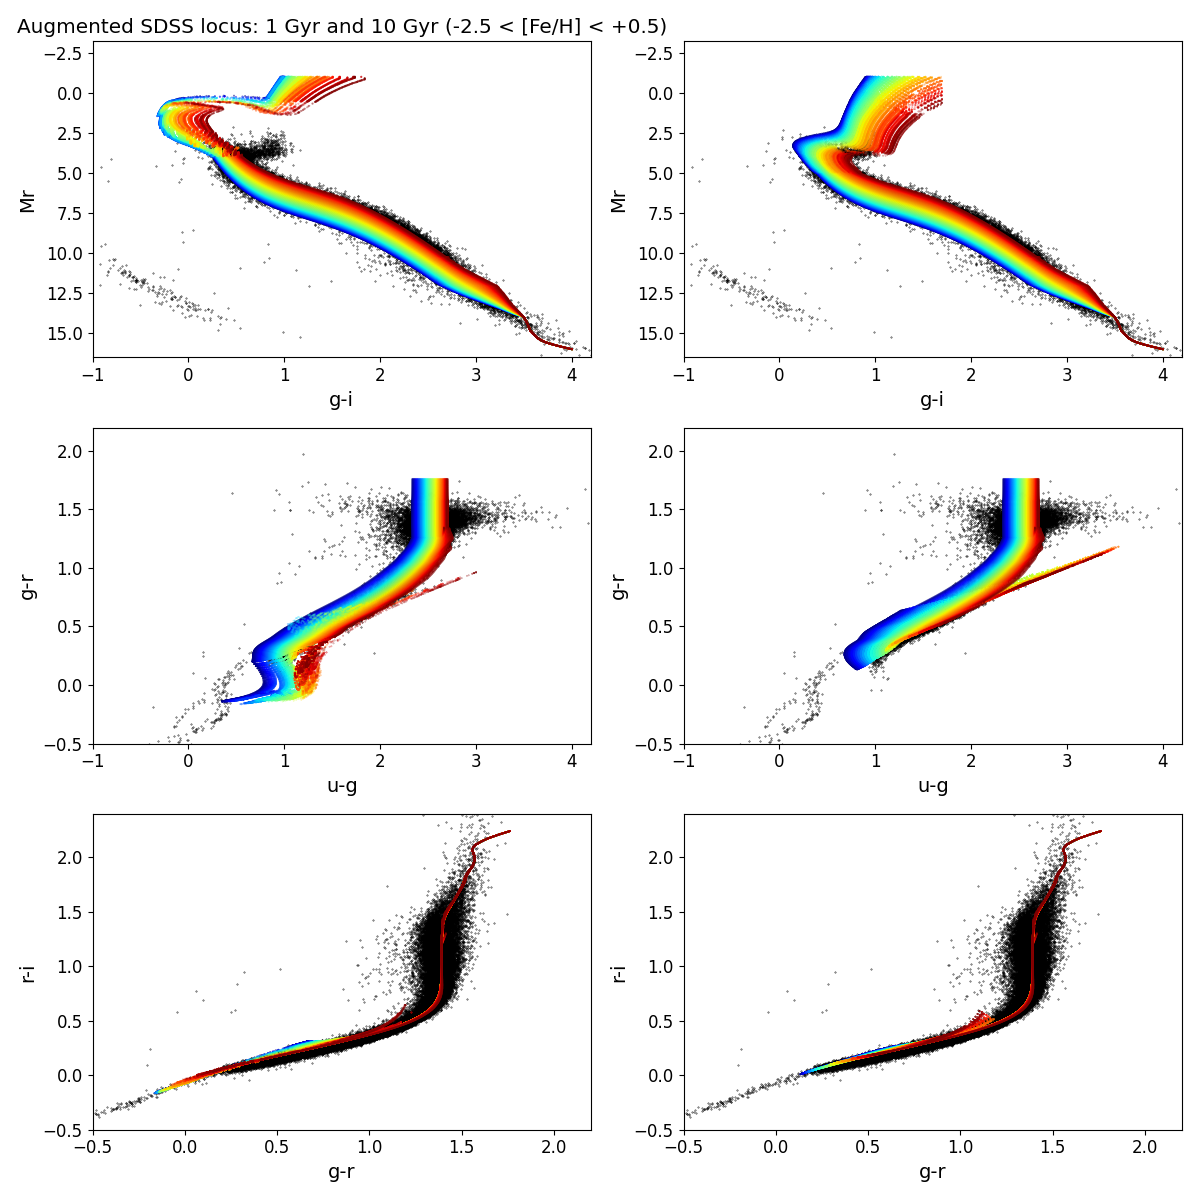
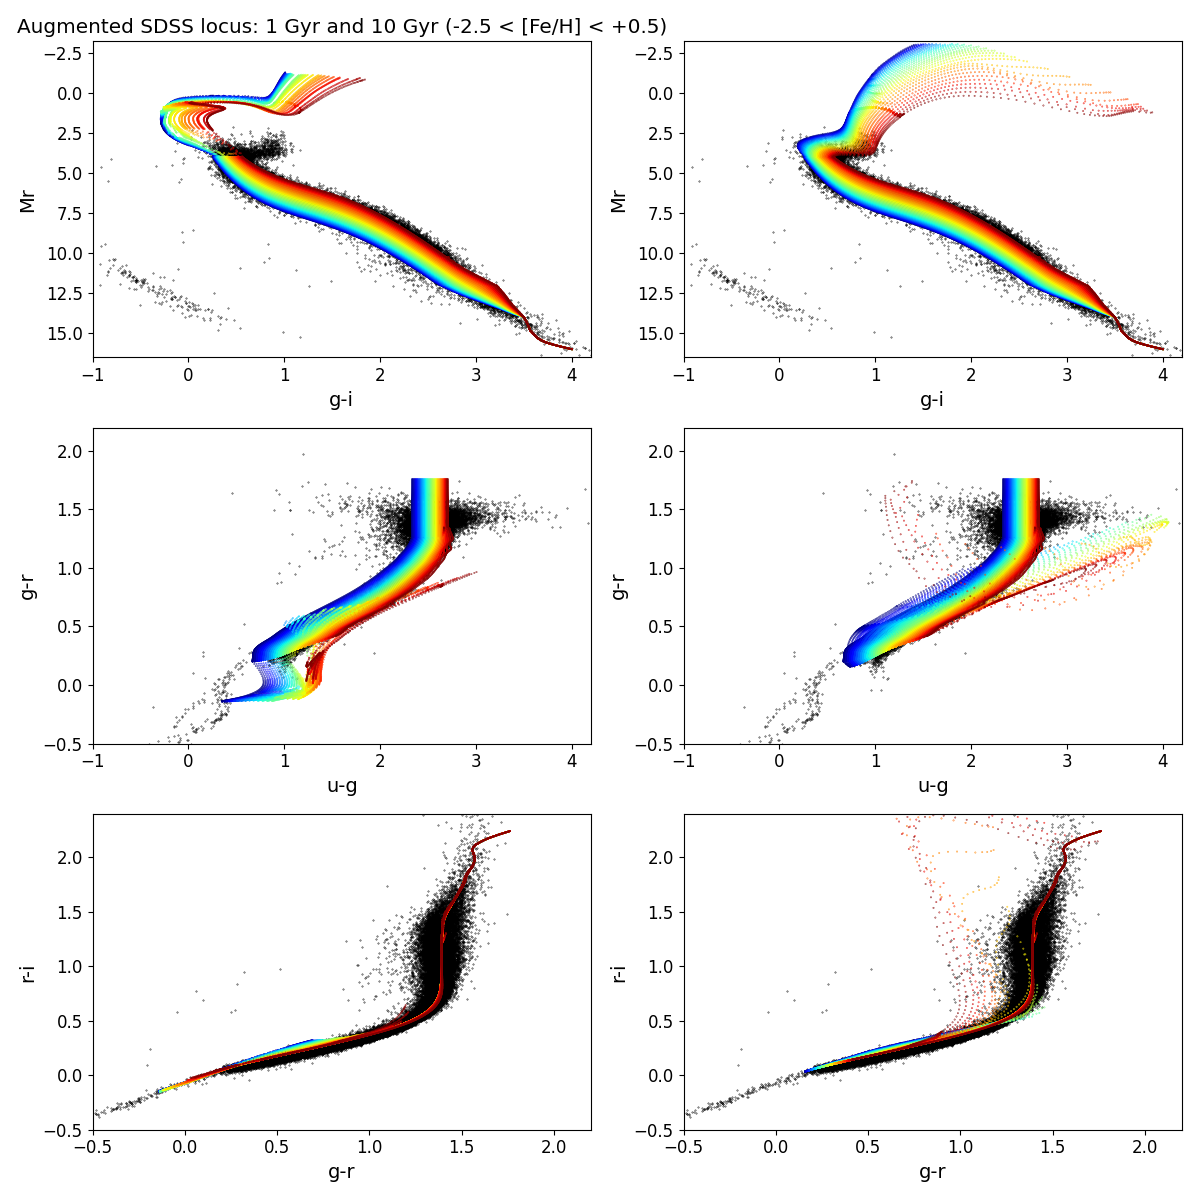
added code for stitching DSED isochrones

diff --git a/paper/notebooks/paperPlots.py b/paper/notebooks/paperPlots.py
@@ -470,6 +470,71 @@ def compare2isochrones(dataDF, isoDF1, isoDF2, alpha1=0.05, alpha2=0.8, title=""
 
 
 
+def compare2isochrones2(dataDF, isoDF1, isoDF2, alpha1=0.05, alpha2=0.8, title="", plotname='compare2isochrones.png'):
+
+    fig,ax = plt.subplots(3,2,figsize=(12,12))
+
+    plt.rcParams.update({'font.size': 12})
+    plt.rc('axes', labelsize=14)    
+
+    ax[0,0].scatter(dataDF['gi'], dataDF['Mr'], s=0.1, c='black')
+    ax[0,0].scatter(isoDF1['gi'], isoDF1['Mr'], s=0.1, c=isoDF1['Mr'], cmap=plt.cm.jet, alpha=alpha1)
+    ax[0,0].set_xlim(-1.0, 4.2)
+    ax[0,0].set_ylim(16.5, -3.2)
+    ax[0,0].set_xlabel('g-i')
+    ax[0,0].set_ylabel('Mr')
+
+    ax[0,1].scatter(dataDF['gi'], dataDF['Mr'], s=0.1, c='black')
+    ax[0,1].scatter(isoDF2['gi'], isoDF2['Mr'], s=0.1, c=isoDF2['Mr'], cmap=plt.cm.jet, alpha=alpha2)
+    ax[0,1].set_xlim(-1.0, 4.2)
+    ax[0,1].set_ylim(16.5, -3.2)
+    ax[0,1].set_xlabel('g-i')
+    ax[0,1].set_ylabel('Mr')
+    ax[0,0].set_title(title, loc='center')
+
+    ax[1,0].scatter(dataDF['ug'], dataDF['gr'], s=0.1, c='black')
+    if (1):
+        flag = (isoDF1['Mr']>0.5)
+        isoDF1x = isoDF1[flag]
+        ax[1,0].scatter(isoDF1x['ug'], isoDF1x['gr'], s=0.1, c=isoDF1x['Mr'], cmap=plt.cm.jet, alpha=alpha1)
+    else:
+        ax[1,0].scatter(isoDF1['ug'], isoDF1['gr'], s=0.1, c=isoDF1['Mr'], cmap=plt.cm.jet, alpha=alpha1)
+    ax[1,0].set_xlim(-1.0,4.2)
+    ax[1,0].set_ylim(-0.5, 2.2)
+    ax[1,0].set_xlabel('u-g')
+    ax[1,0].set_ylabel('g-r')
+
+    ax[1,1].scatter(dataDF['ug'], dataDF['gr'], s=0.1, c='black')
+    ax[1,1].scatter(isoDF2['ug'], isoDF2['gr'], s=0.1, c=isoDF2['Mr'], cmap=plt.cm.jet, alpha=alpha2)
+    ax[1,1].set_xlim(-1.0,4.2)
+    ax[1,1].set_ylim(-0.5, 2.2)
+    ax[1,1].set_xlabel('u-g')
+    ax[1,1].set_ylabel('g-r')
+
+    ax[2,0].scatter(dataDF['gr'], dataDF['ri'], s=0.1, c='black')
+    ax[2,0].scatter(isoDF1['gr'], isoDF1['ri'], s=0.1, c=isoDF1['Mr'], cmap=plt.cm.jet, alpha=alpha1)
+    ax[2,0].set_xlim(-0.5, 2.2)
+    ax[2,0].set_ylim(-0.5, 2.4)
+    ax[2,0].set_xlabel('g-r')
+    ax[2,0].set_ylabel('r-i')
+
+    ax[2,1].scatter(dataDF['gr'], dataDF['ri'], s=0.1, c='black')
+    ax[2,1].scatter(isoDF2['gr'], isoDF2['ri'], s=0.1, c=isoDF2['Mr'], cmap=plt.cm.jet, alpha=alpha2)
+    ax[2,1].set_xlim(-0.5, 2.2)
+    ax[2,1].set_ylim(-0.5, 2.4)
+    ax[2,1].set_xlabel('g-r')
+    ax[2,1].set_ylabel('r-i')
+
+    plt.tight_layout()
+    plt.savefig(plotname)
+    print('made plot:', plotname)
+    plt.show() 
+    plt.close("all")
+    return
+
+
+
+
 
 
 def compare2isochronesColorMr(dataDF, isoDF1, isoDF2, alpha1=0.05, alpha2=0.8, title="", plotname='compare2isochronesColorMr.png'):
@@ -549,6 +614,126 @@ def compare2isochronesColorMr(dataDF, isoDF1, isoDF2, alpha1=0.05, alpha2=0.8, t
     ax[4,1].set_xlabel('Mr')
     ax[4,1].set_ylabel('g-i')
 
+    plt.tight_layout()
+    plt.savefig(plotname)
+    print('made plot:', plotname)
+    plt.show() 
+    plt.close("all")
+    return
+
+
+ 
+
+
+
+def compare2isochronesColorMrAlongLocus(df1, df2, alpha=0.8, title="", plotname='noname.png', tMin = -10, tMax = 272):
+
+    fig,ax = plt.subplots(7,2,figsize=(12,12))
+
+    def plotPanel(xP, yP, df, xName, yName, cName, xMin, xMax, yMin, yMax, xLabel, yLabel, alpha):
+        ax[xP,yP].scatter(df[xName], df[yName], s=0.3, c=df[cName], cmap=plt.cm.jet, alpha=alpha)
+        ax[xP,yP].set_xlim(xMin, xMax)
+        ax[xP,yP].set_ylim(yMin, yMax)
+        ax[xP,yP].set_xlabel(xLabel)
+        ax[xP,yP].set_ylabel(yLabel)
+
+    # derivatives dMr/dtLoc
+    def dMdt(df):
+        dMdt = 0*df['Mr']
+        for i in range(1,len(dMdt)):
+            dMdt[i] = (df['Mr'][i]-df['Mr'][i-1])/(df['tLoc'][i]-df['tLoc'][i-1])      
+        dMdt[0] = dMdt[1]
+        return dMdt
+
+    tLocMin = tMin
+    tLocMax = tMax
+    ax[0,0].set_title(title)
+
+    plotPanel(0, 0, df1, 'tLoc', 'ug', 'FeH', tLocMin, tLocMax, -0.7, 4.2, 'tLocus', 'u-g', alpha) 
+    plotPanel(0, 1, df2, 'tLoc', 'ug', 'FeH', tLocMin, tLocMax, -0.7, 4.2, 'tLocus', 'u-g', alpha) 
+
+    plotPanel(1, 0, df1, 'tLoc', 'gr', 'FeH', tLocMin, tLocMax, -0.9, 2.2, 'tLocus', 'g-r', alpha) 
+    plotPanel(1, 1, df2, 'tLoc', 'gr', 'FeH', tLocMin, tLocMax, -0.9, 2.2, 'tLocus', 'g-r', alpha) 
+     
+    plotPanel(2, 0, df1, 'tLoc', 'ri', 'FeH', tLocMin, tLocMax, -0.7, 2.9, 'tLocus', 'r-i', alpha) 
+    plotPanel(2, 1, df2, 'tLoc', 'ri', 'FeH', tLocMin, tLocMax, -0.7, 2.9, 'tLocus', 'r-i', alpha) 
+
+    plotPanel(3, 0, df1, 'tLoc', 'iz', 'FeH', tLocMin, tLocMax, -0.7, 2.0, 'tLocus', 'i-z', alpha) 
+    plotPanel(3, 1, df2, 'tLoc', 'iz', 'FeH', tLocMin, tLocMax, -0.7, 2.0, 'tLocus', 'i-z', alpha) 
+
+    plotPanel(4, 0, df1, 'tLoc', 'gi', 'FeH', tLocMin, tLocMax, -1.7, 5.1, 'tLocus', 'g-i', alpha) 
+    plotPanel(4, 1, df2, 'tLoc', 'gi', 'FeH', tLocMin, tLocMax, -1.7, 5.1, 'tLocus', 'g-i', alpha) 
+  
+    plotPanel(5, 0, df1, 'tLoc', 'Mr', 'FeH', tLocMin, tLocMax, 20.1, -5.1, 'tLocus', 'Mr', alpha) 
+    plotPanel(5, 1, df2, 'tLoc', 'Mr', 'FeH', tLocMin, tLocMax, 20.1, -5.1, 'tLocus', 'Mr', alpha) 
+
+    # derivatives dMr/dtLoc
+    if (1):
+        df1['dMdt'] = dMdt(df1)
+        df2['dMdt'] = dMdt(df2)
+        plotPanel(6, 0, df1, 'tLoc', 'dMdt', 'FeH', tLocMin, tLocMax, -10.7, 10.3, 'tLocus', 'dMr/dtLoc', alpha) 
+        plotPanel(6, 1, df2, 'tLoc', 'dMdt', 'FeH', tLocMin, tLocMax, -10.7, 10.3, 'tLocus', 'dMr/dtLoc', alpha) 
+
+    
+    plt.tight_layout()
+    plt.savefig(plotname)
+    print('made plot:', plotname)
+    plt.show() 
+    plt.close("all")
+    return
+
+
+
+
+
+def compare2isochronesColorMrAlongLocus2(df1, df2, alpha=0.8, title="", plotname='compare2isochronesColorMrAlongLocus.png'):
+
+    fig,ax = plt.subplots(7,2,figsize=(12,12))
+
+    def plotPanel(xP, yP, df, xName, yName, cName, xMin, xMax, yMin, yMax, xLabel, yLabel, alpha):
+        ax[xP,yP].scatter(df[xName], df[yName], s=0.3, c=df[cName], cmap=plt.cm.jet, alpha=alpha)
+        ax[xP,yP].set_xlim(xMin, xMax)
+        ax[xP,yP].set_ylim(yMin, yMax)
+        ax[xP,yP].set_xlabel(xLabel)
+        ax[xP,yP].set_ylabel(yLabel)
+
+    # derivatives dMr/dtLoc
+    def dMdt(df):
+        dMdt = 0*df['Mr']
+        for i in range(1,len(dMdt)):
+            dMdt[i] = (df['Mr'][i]-df['Mr'][i-1])/(df['tLoc'][i]-df['tLoc'][i-1])      
+        dMdt[0] = dMdt[1]
+        return dMdt
+
+    tLocMin = -10
+    tLocMax = 272
+    ax[0,0].set_title(title)
+
+    plotPanel(0, 0, df1, 'tLoc', 'ug', 'Mr', tLocMin, tLocMax, -0.7, 4.2, 'tLocus', 'u-g', alpha) 
+    plotPanel(0, 1, df2, 'tLoc', 'ug', 'Mr', tLocMin, tLocMax, -0.7, 4.2, 'tLocus', 'u-g', alpha) 
+
+    plotPanel(1, 0, df1, 'tLoc', 'gr', 'Mr', tLocMin, tLocMax, -0.9, 2.2, 'tLocus', 'g-r', alpha) 
+    plotPanel(1, 1, df2, 'tLoc', 'gr', 'Mr', tLocMin, tLocMax, -0.9, 2.2, 'tLocus', 'g-r', alpha) 
+     
+    plotPanel(2, 0, df1, 'tLoc', 'ri', 'Mr', tLocMin, tLocMax, -0.7, 2.9, 'tLocus', 'r-i', alpha) 
+    plotPanel(2, 1, df2, 'tLoc', 'ri', 'Mr', tLocMin, tLocMax, -0.7, 2.9, 'tLocus', 'r-i', alpha) 
+
+    plotPanel(3, 0, df1, 'tLoc', 'iz', 'Mr', tLocMin, tLocMax, -0.7, 2.0, 'tLocus', 'i-z', alpha) 
+    plotPanel(3, 1, df2, 'tLoc', 'iz', 'Mr', tLocMin, tLocMax, -0.7, 2.0, 'tLocus', 'i-z', alpha) 
+
+    plotPanel(4, 0, df1, 'tLoc', 'gi', 'Mr', tLocMin, tLocMax, -1.7, 4.1, 'tLocus', 'g-i', alpha) 
+    plotPanel(4, 1, df2, 'tLoc', 'gi', 'Mr', tLocMin, tLocMax, -1.7, 4.1, 'tLocus', 'g-i', alpha) 
+  
+    plotPanel(5, 0, df1, 'tLoc', 'Mr', 'Mr', tLocMin, tLocMax, 15.1, -5.1, 'tLocus', 'Mr', alpha) 
+    plotPanel(5, 1, df2, 'tLoc', 'Mr', 'Mr', tLocMin, tLocMax, 15.1, -5.1, 'tLocus', 'Mr', alpha) 
+
+    # derivatives dMr/dtLoc
+    df1['dMdt'] = dMdt(df1)
+    df2['dMdt'] = dMdt(df2)
+    plotPanel(6, 0, df1, 'tLoc', 'dMdt', 'Mr', tLocMin, tLocMax, -0.7, 0.3, 'tLocus', 'dMr/dtLoc', alpha) 
+    plotPanel(6, 1, df2, 'tLoc', 'dMdt', 'Mr', tLocMin, tLocMax, -0.7, 0.3, 'tLocus', 'dMr/dtLoc', alpha) 
+
+    
     plt.tight_layout()
     plt.savefig(plotname)
     print('made plot:', plotname)

diff --git a/src/LocusTools.py b/src/LocusTools.py
@@ -366,12 +366,12 @@ def DSEDlist2locus(DSEDlist):
     # given a list of DSED tables (e.g. 31 for different FeH values)
     # make a table with (Mr, FeH, {colors}), such as SDSS master locus
     d = DSEDlist[0]
-    sublist = (d['Mr'], d['FeH'], d['ug'], d['gr'], d['ri'], d['iz'], d['gi'])
+    sublist = (d['tLoc'], d['Mr'], d['FeH'], d['ug'], d['gr'], d['ri'], d['iz'], d['gi'])
     DSEDlocus = Table(sublist, copy=True)
     # loop 
     for i in range(1,len(DSEDlist)):
         d = DSEDlist[i]
-        sublist = (d['Mr'], d['FeH'], d['ug'], d['gr'], d['ri'], d['iz'], d['gi'])
+        sublist = (d['tLoc'], d['Mr'], d['FeH'], d['ug'], d['gr'], d['ri'], d['iz'], d['gi'])
         locus = Table(sublist, copy=True)
         DSEDlocus = vstack([DSEDlocus, locus])
     return DSEDlocus 
@@ -390,8 +390,7 @@ def DSEDlist2locusAugmented(DSEDlist):
         locus.rename_column('col0', 'Mr')     
         locus.rename_column('col1', 'FeH')     
         for c in colors:
-            locus[c], distanceAlongLocus = interpolateColorMr(d['Mr'], d[c], MrGrid)
-            locus['Dalong_'+c] = distanceAlongLocus 
+            locus[c] = interpolateColorMr(d['Mr'], d[c], MrGrid)
             # locus[c] = interpolateColorMrLinear(d['Mr'], d[c], MrGrid)
         locus['gi'] = locus['gr'] + locus['ri']
         if (i==0):
@@ -496,15 +495,19 @@ def getDSEDages(DSEDdatadir, DSEDfile):
 def assignAges(DSED, ages):
     k = 0
     DSED['ageGyr'] = DSED['logTeff']
+    DSED['tLoc'] = DSED['logTeff']
     for i in range(0, len(DSED)):
         if i==0: 
             DSED['ageGyr'][i] = ages[k]
+            DSED['tLoc'][i] = 0.0
         else:
             if DSED['EEP'][i]>DSED['EEP'][i-1]:
                 DSED['ageGyr'][i] = ages[k]
+                DSED['tLoc'][i] =  DSED['tLoc'][i-1] + 1.0 
             else:
                 k += 1
                 DSED['ageGyr'][i] = ages[k]
+                DSED['tLoc'][i] = 0.0
 
 def PARSEClocus(datafile, masterLocusData=""): 
         ## STELLAR ISOCHRONES IN THE SDSS-2MASS PHOTOMETRIC SYSTEM
@@ -548,6 +551,7 @@ def interpolateLocusGrid(inLocus, masterLocus):
         return interpLocus
 
 
+# first version, will become obsolete after augmentSDSSlocusWithIsochrone fully commissioned
 def augmentSDSSlocus(locusSDSS, locusDSED, MrStitch=5.0):
 
     # copy input locus
@@ -578,6 +582,42 @@ def augmentSDSSlocus(locusSDSS, locusDSED, MrStitch=5.0):
                 # NB correct for SDSS colors at Mr=MrStitch for SDSS locus
                 locusSDSSaug[c][j] = locusDSED[c][j] - locusDSED[c][jMr] + locusSDSSaug[c][jMr]
     return locusSDSSaug
+
+
+# new version, incorporates tLoc variable (distance along the locus)
+# "stitch" Mr < MrStich part of locusDSED to locusSDSS (and match colors) 
+def augmentSDSSlocusWithIsochrone(locusSDSS, locusDSED, MrStitch=5.0):
+
+    Ldsed = locusDSED
+    locusSDSS['tLoc'] = locusSDSS['Mr']
+    FeHGrid = locusSDSS['FeH']
+    FeH1d = np.sort(np.unique(FeHGrid))
+    colors = ['ug', 'gr', 'ri', 'iz', 'gi']
+    # loop over all FeH values
+    for i in range(0,len(FeH1d)):
+        LsdssFeH = locusSDSS[(locusSDSS['FeH']>FeH1d[i]-0.01)&(locusSDSS['FeH']<FeH1d[i]+0.01)]
+        LsdssFeH.reverse()
+        LdsedFeH = Ldsed[(Ldsed['FeH']>FeH1d[i]-0.01)&(Ldsed['FeH']<FeH1d[i]+0.01)]
+        if (len(LdsedFeH)>0):
+            ldsedRG = LdsedFeH[LdsedFeH['Mr'] < MrStitch]
+            ldsedRG['tLoc'] = MrStitch - 0.01*(ldsedRG['tLoc'] - ldsedRG['tLoc'][0] + 1)
+            d = ldsedRG
+            sublist = (d['tLoc'], d['Mr'], d['FeH'], d['ug'], d['gr'], d['ri'], d['iz'], d['gi'])
+            locusRG = Table(sublist, copy=True) 
+            locusSDSSms = LsdssFeH[LsdssFeH['Mr'] >= MrStitch]
+            d = locusSDSSms
+            sublist = (d['tLoc'], d['Mr'], d['FeH'], d['ug'], d['gr'], d['ri'], d['iz'], d['gi'])
+            locusMS = Table(sublist, copy=True)
+            for c in colors:
+                # correct for color offset 
+                locusRG[c] = locusRG[c] - locusRG[c][0] + locusMS[c][-1]
+            StitchedLocusFeH = vstack([locusMS, locusRG])
+            if (i==0):
+                StitchedLocus = StitchedLocusFeH
+            else:
+                StitchedLocus = vstack([StitchedLocus, StitchedLocusFeH])
+    return StitchedLocus
+ 
 
 
 def smoothLocus(locus):
@@ -866,6 +906,59 @@ def LSSTsimsLocus(fixForStripe82=True, datafile=""):
             LSSTlocus['iz'] += off0*LSSTlocus['ri']+off2*LSSTlocus['ri']**2+off5*LSSTlocus['ri']**5
             LSSTlocus['iz'] += offZ*(Z0+LSSTlocus['FeH'])
         return LSSTlocus
+
+
+
+# similar to LSSTsimsLocus, but with tLoc running variable 
+
+def readSDSSDSEDlocus(datafile, fixForStripe82=True): 
+        ## Mr, as function of [Fe/H], along the SDSS/LSST stellar 
+        ## for more details see the file header
+        colnames = ['tLoc', 'Mr', 'FeH', 'ug', 'gr', 'ri', 'iz']
+        LSSTlocus = Table.read(datafile, format='ascii', names=colnames)
+        LSSTlocus['gi'] = LSSTlocus['gr'] + LSSTlocus['ri']
+        if (fixForStripe82):
+            print('Fixing input Mr-FeH-colors grid to agree with the SDSS v4.2 catalog')
+            # for SDSS v4.2 catalog, see: http://faculty.washington.edu/ivezic/sdss/catalogs/stripe82.html
+            # implement empirical corrections for u-g and i-z colors to make it better agree with the SDSS v4.2 catalog
+            # fix u-g: slightly redder for progressively redder stars and fixed for gi>giMax
+            ugFix = LSSTlocus['ug']+0.02*(2+LSSTlocus['FeH'])*LSSTlocus['gi']
+            giMax = 1.8
+            ugMax = 2.53 + 0.13*(1+LSSTlocus['FeH'])
+            LSSTlocus['ug'] = np.where(LSSTlocus['gi']>giMax, ugMax , ugFix)
+            # fix i-z color: small offsets as functions of r-i and [Fe/H]
+            off0 = 0.08
+            off2 = -0.09
+            off5 = 0.008
+            offZ = 0.01
+            Z0 = 2.5
+            LSSTlocus['iz'] += off0*LSSTlocus['ri']+off2*LSSTlocus['ri']**2+off5*LSSTlocus['ri']**5
+            LSSTlocus['iz'] += offZ*(Z0+LSSTlocus['FeH'])
+        return LSSTlocus
+
+
+def dumpSDSSDSEDlocus(df, header, outfilename):
+
+    fout = open(outfilename, "w")
+    fout.write(header + '\n')
+    fout.write("   tLoc    Mr    FeH     ug      gr      ri      iz   \n")
+    for i in range(0,len(df)):
+        r1 = df['tLoc'][i]
+        r2 = df['Mr'][i]
+        r3 = df['FeH'][i]
+        r4 = df['ug'][i]
+        r5 = df['gr'][i] 
+        r6 = df['ri'][i] 
+        r7 = df['iz'][i] 
+        s = str("%7.2f" % r1) + str("%7.2f" % r2) + str("%6.2f" % r3) + str("%8.3f" % r4) + str("%8.3f" % r5)
+        s = s + str("%8.3f" % r6) + str("%8.3f" % r7) + "\n"
+        fout.write(s)             
+    fout.close() 
+    print('made catalog:', outfilename)
+    return 
+
+
+
 
 def BHBlocus(): 
         ## Mr, [Fe/H] and SDSS/LSST colors for BHB stars (Sirko+2004)
